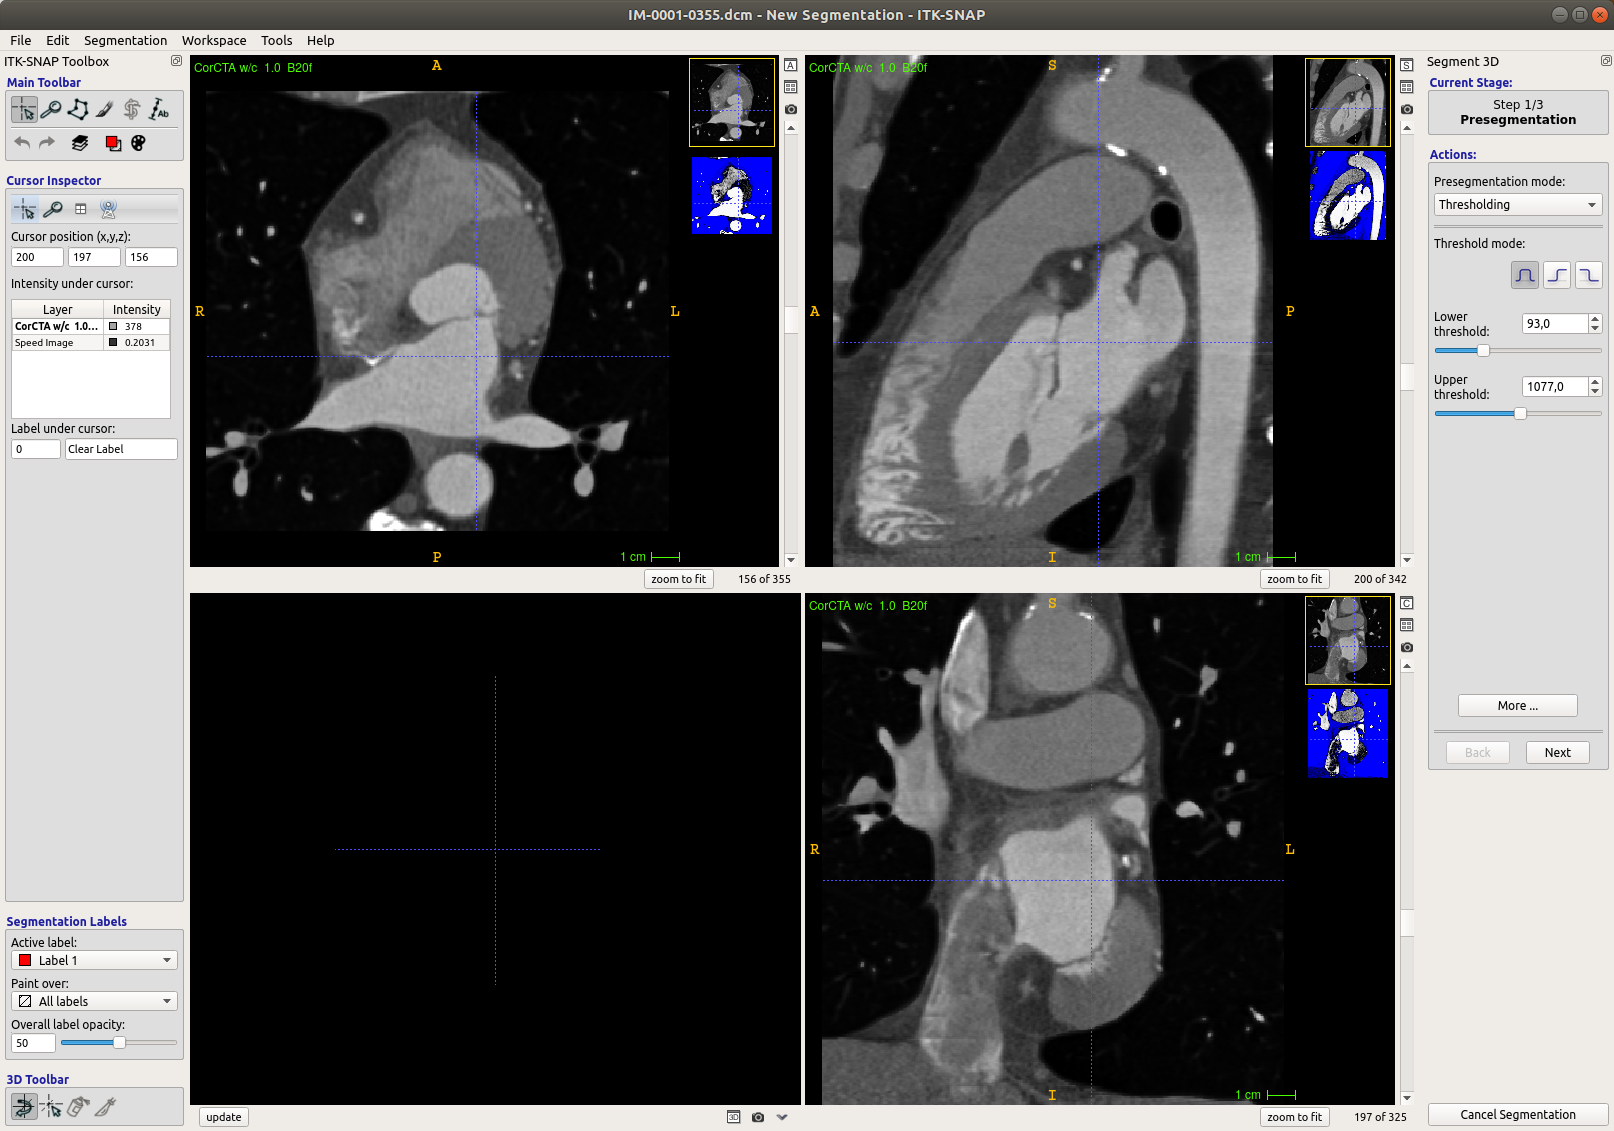
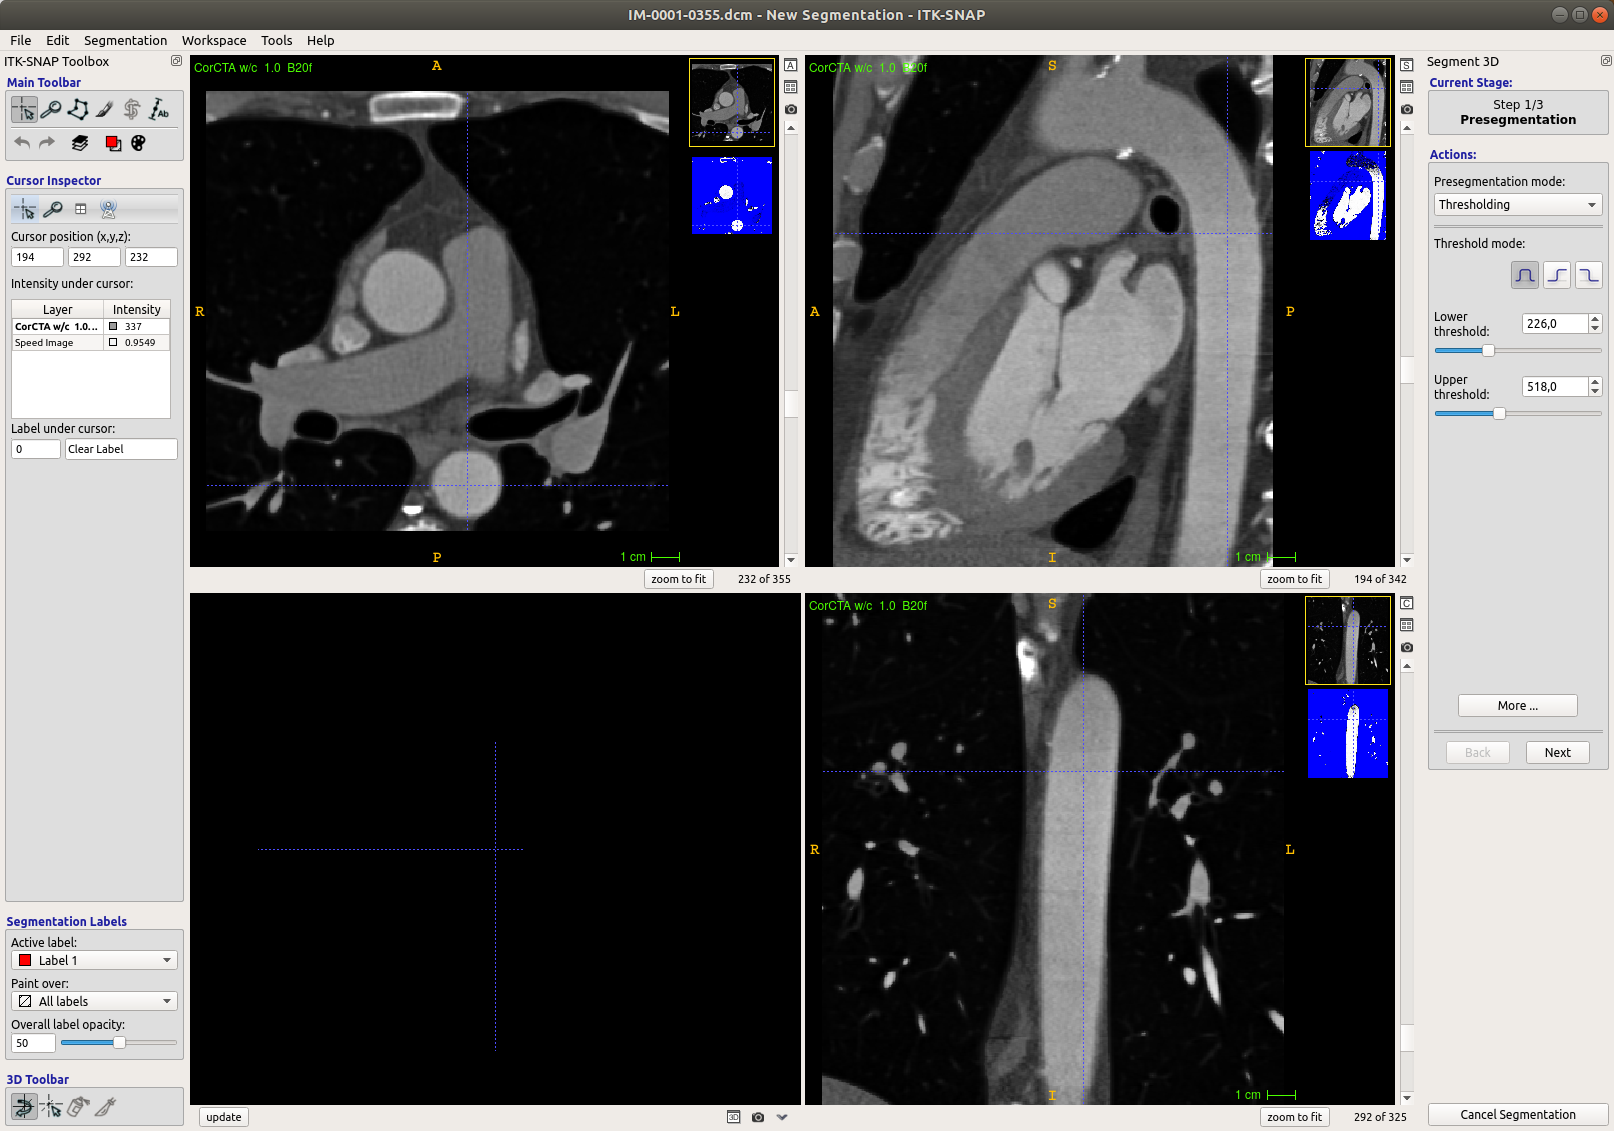
completed itksnap_guide

diff --git a/itksnap_guide.md b/itksnap_guide.md
@@ -30,7 +30,7 @@ The first step in the semi-automatic segmentation process is thresholding. Adjus
 
 ![Pre-segmentation by thresholding](figures/itksnap/0005.png "Pre-segmentation by thresholding")
 
-Ideally, I would have liked to include all blood filled spaces in one go, but the shades of grey are fairly different for the left heart, right heart, and the aorta. So I chose the lower threshold 93.0 and upper threshold 1077.0 and advance to the next step by clicking on "Next".
+Ideally, I would have liked to include all blood filled spaces in one go, but the shades of grey are fairly different for the left heart, right heart, and the aorta. So I chose the lower threshold 226 and upper threshold 518 and advance to the next step by clicking on "Next".
 
 The second step is to initialise the automatic segmentation by placing a set of "bubbles" in areas that we'd like to segment.
 
@@ -42,4 +42,30 @@ The final step is the easiest, because you just have to hit the "Play" button, s
 
 ![First look at the 3D segmentation](figures/itksnap/0007.png "First look at the 3D segmentation")
 
-After around 320 iterations we get a fairly complete segmentation of the cavities of the left ventricle and left atrium, as well as the lumina of the ascending aorta and pulmonary veins. Some short sections of the coronary arteries are also visible. Continuing the time evolution of the automatic segmentation extens the segmentation of these arteries and veins further. 
+After around 320 iterations we get a fairly complete segmentation of the cavities of the left ventricle and left atrium, as well as the lumina of the ascending aorta and pulmonary veins. Some short sections of the coronary arteries are also visible. Continuing the time evolution of the automatic segmentation extends the segmentation of these arteries and veins further. It is a good idea to keep checking the progress by updating the 3D view every 100 iterations or so since you have to start from the beginning if you decided that you went too far. Here I stopped at 800 iterations. Close the segmentation window by clicking on "Finish". 
+
+![Finished segmentation (red label)](figures/itksnap/0008.png "Finished segmentation  (red label)")
+
+The workbench panels now show the segmentation. To begin segmenting the right heart choose "Label 2" (green) under "Active label" at the bottom left, and "Clear label" under "Paint over". This setting ensures that the new segmentation does not leak into our segmentation of the left heart. Go back to the snake tool and click on "Segment 3D". The ROI is the same as before, so we don't need to change it. I set the thresholds for segmenting the right heart to 85--571, which includes the left heart. Therefore it is important that we selected to only let the new label paint over the clear label. In the next step I placed bubbles in the right ventricle, right atrium, and pulmonary arteries and started the automatic segmentation. Note that the automatic segmentation always appears in red regardless of the label colour chosen. 
+
+![Segmentation of the right heart](figures/itksnap/0009.png "Segmentation using the green label")
+
+This time it took around 720 iterations to complete the right heart. Note that the automatic segmentation will "leak" into the left heart because of the thresholds we chose earlier.
+
+![Finished segmentation (green label)](figures/itksnap/0010.png "Finished segmentation (green label)")
+
+Since we specified that the green label shall only paint over the clear label our previous segmentation has remained untouched. However, we find green "borders" around large parts of the red segmentation. These we have to fix manually. Select the red label as the active label to only paint over the green label. Click on the paintbrush tool (or hit "4" on the keyboard), select a round brush with a fairly large size (22 here), and select "3D". Now you can paint over the green borders in the image panels without having to worry about affecting the clear label. It is a good idea to focus on one part of the heart at a time (for example, left ventricle first, then left atrium, then aorta). I recommend to update the 3D view often to double check.
+
+Let's take a closer look at the aorta.
+
+![Closer look at the aorta](figures/itksnap/0011.png "Closer look at the aorta")
+
+In the CT images the aorta is fully visible, but our segmentation so far only includes disconneted parts of the ascending and descending aorta. We would like to add the remaining parts of the aorta to the red label. We can't do this directly as it would overwrite our previous segmentation. Instead, we can pick a third label (blue) as the active label to paint over the clear label and perform another "snake" segmentation. We can use the same thresholds again and place a few bubbles along the bend and the descending aorta. In my case, this segmentation was completed after 250 iterations.
+
+![Segmentation of the aorta](figures/itksnap/0012.png "Segmentation of the aorta")
+
+Now we have a complete aorta. To add it to the red label, all we need to do is choose the red label as the active label to paint over the blue label and use the paintbrush tool. Here you can use the largest paintbrush to speed up the process.
+
+![Segmentation of the aorta](figures/itksnap/0013.png "Segmentation of the aorta")
+
+You can keep doing this with different parts of the geometry until you are satisfied with the end result, and export the surface mesh to stl by clicking on "Segmentation" &rightarrow; "Export as Surface Mesh ..." for post-processing.
